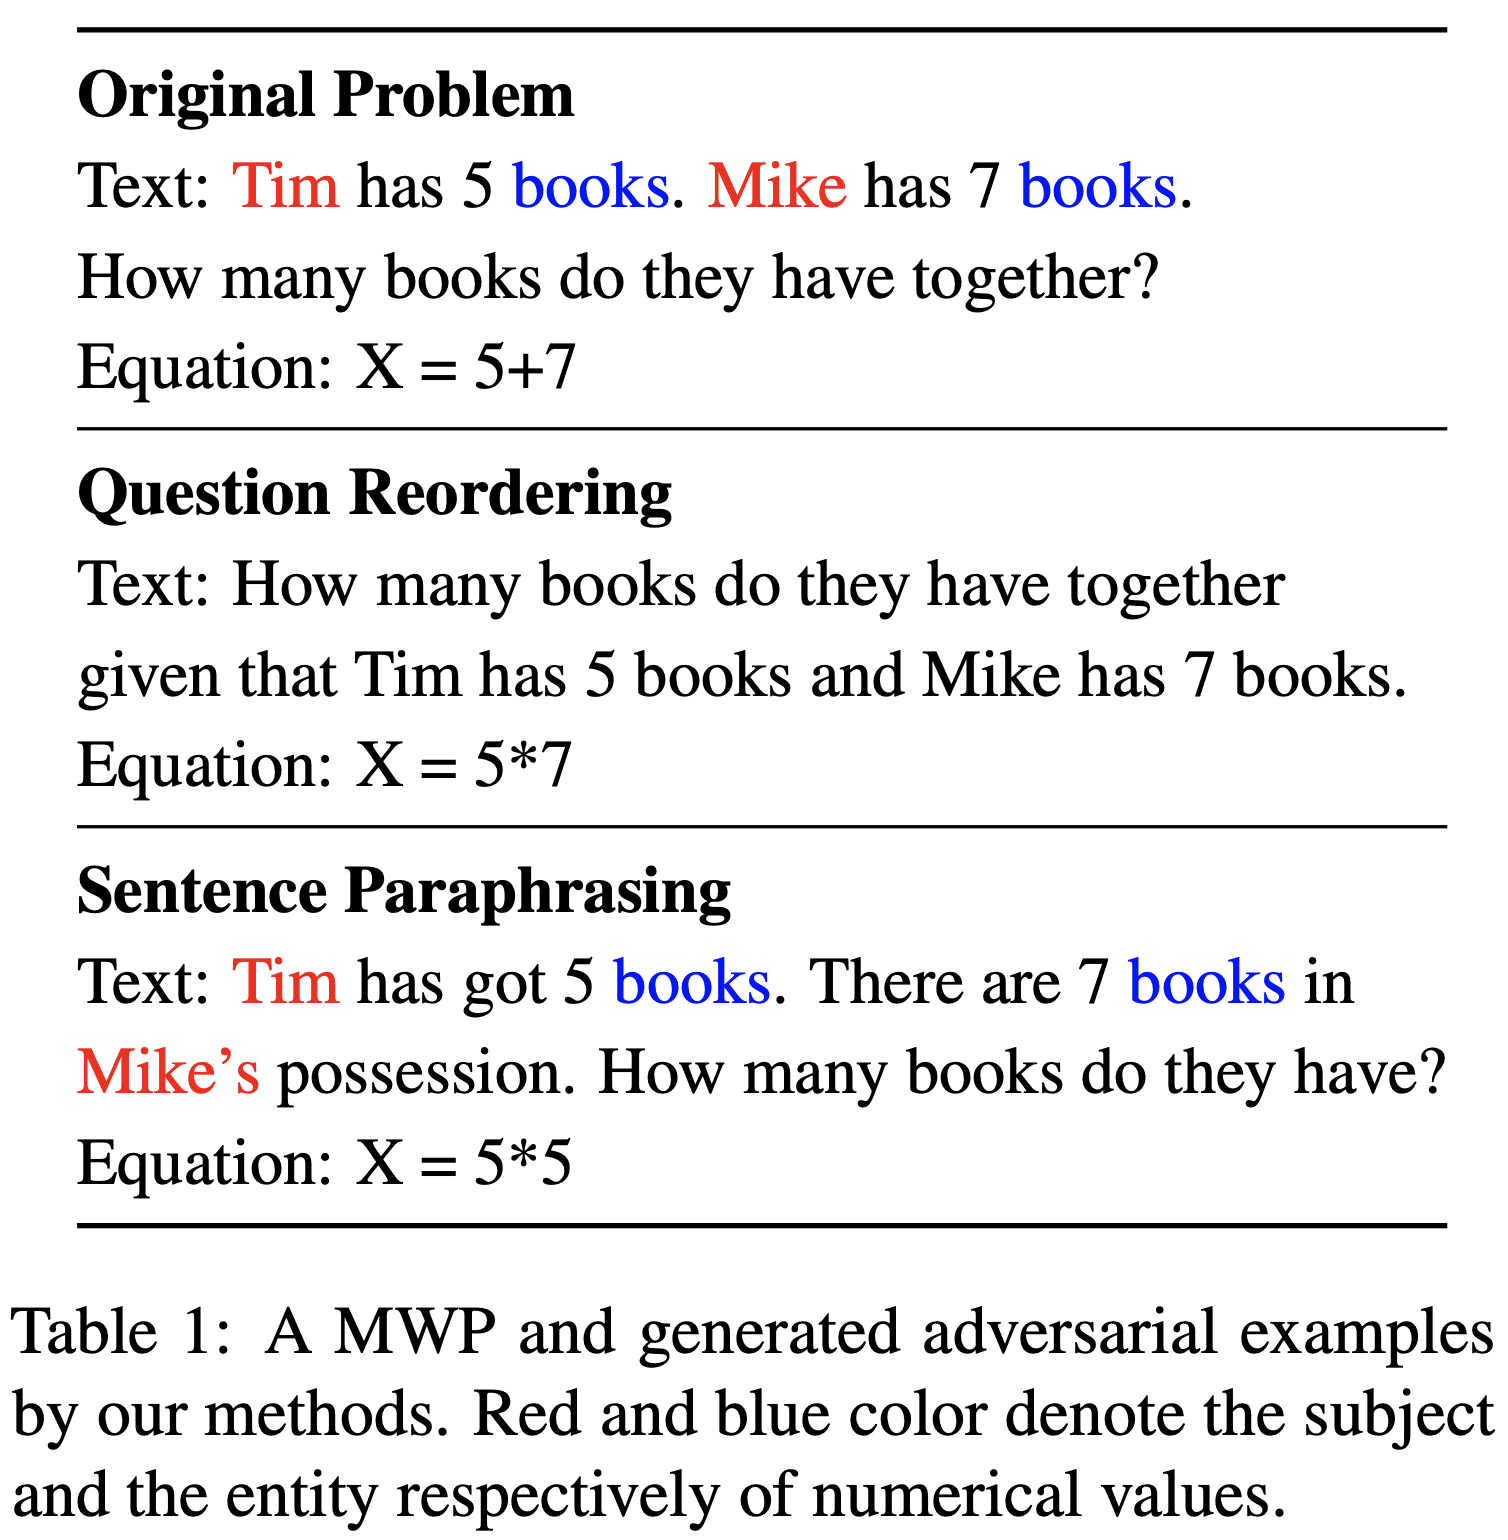
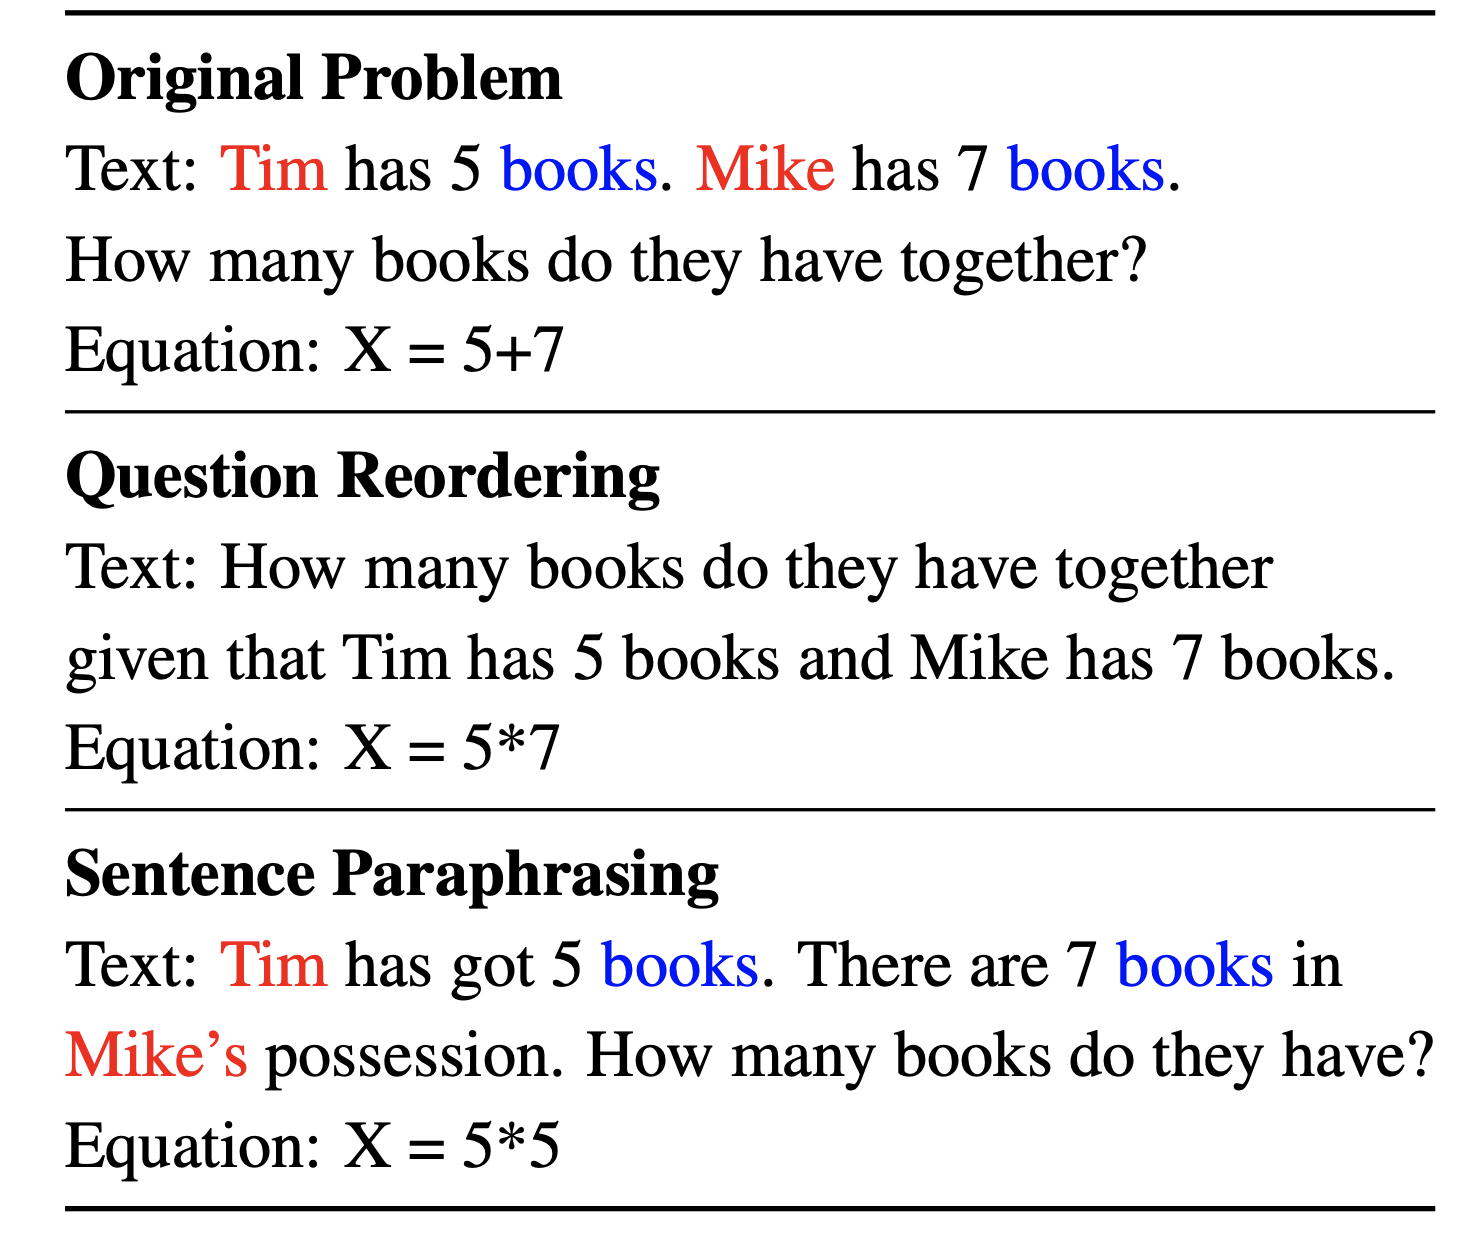
Added defense slides

Changed region(s): [[0.0, 0.0, 0.998, 1.0]]

diff --git a/index.html b/index.html
@@ -60,8 +60,8 @@
                 / <a href="https://scholar.google.com/citations?user=cwGB7lwAAAAJ&hl=en&oi=sra"><i
                         class="ai ai-google-scholar"></i></a>
             </span>
-            <span style="font-size: smaller;"><a href="docs/CoverLetter-Rishabh.pdf"><i
-                class="fas fa-file-alt"></i>   Cover-letter</a></span>
+            <!-- <span style="font-size: smaller;"><a href="docs/CoverLetter-Rishabh.pdf"><i
+                class="fas fa-file-alt"></i> Cover letter</a></span> -->
         </div>
         <div class="three columns">&nbsp;</div>
         <div class="nine columns intro">
@@ -77,7 +77,8 @@
                 Prior to that, I worked on evaluating the robustness and generalization of NLP models as part of my Masters' thesis at <a href="https://www.iiit.ac.in/">IIIT Hyderabad</a>.
                 Previously, I was also a research intern at <a href="https://www.verisk.com/">Verisk AI</a> where I worked on information extraction from form-like documents. 
                 Apart from this, I did <a href="https://summerofcode.withgoogle.com/">Google Summer of Code</a> internship
-                and I am an active contributor to several open-source frameworks.
+                and I am an active contributor to several open-source frameworks.<br> 
+                More details are available in my <a href="docs/CoverLetter-Rishabh.pdf">cover letter</a>.
             </p>
             <!-- <h5>Experience</h5>
             <hr/>
@@ -146,10 +147,10 @@
                     <img src="img/thesis.png">
                 </div>
                 <div class="pub-desc nine columns">
-                    <span class="pub-title"><a href="docs/Evaluating_the_Robustness_of_Deep_learning_Models_for_NLP.pdf">Evaluating the Robustness of Deep learning Models for NLP</a></span>
-                        <div class="pub-authors"><span class="fw6">Rishabh Maheshwary</span></div>
+                    <span class="pub-title"><a href="docs/Evaluating_the_Robustness_of_Deep_learning_Models_for_NLP.pdf">Evaluating the Robustness of Deep learning Models for NLP</a></span><br>
                     <span class="pub-venue">Masters Thesis</span>
                     <div class="pub-code"><span>IIIT Hyderabad</span>
+                    <div class="pub-code"><span><a href="https://docs.google.com/presentation/d/19tTGz1IyTBss1h8WvMPy9H5WMjxAjy9W/edit?usp=sharing&ouid=104639979968551783603&rtpof=true&sd=true">Slides</a></span></div>
                 </div>
             </div>
             <div class="row publication">

diff --git a/css/custom.css b/css/custom.css
@@ -136,11 +136,12 @@ a:hover {
 }
 
 .pub-venue {
+    font-size: 1.5rem;
     font-style: italic;
 }
 
 .pub-authors {
-    font-size: 1.6rem;
+    font-size: 1.4rem;
 }
 
 .pub-code {
@@ -149,7 +150,7 @@ a:hover {
 }
 
 .pub-title {
-    font-size: 1.8rem;
+    font-size: 1.6rem;
     font-family: sans-serif;
 }
 
